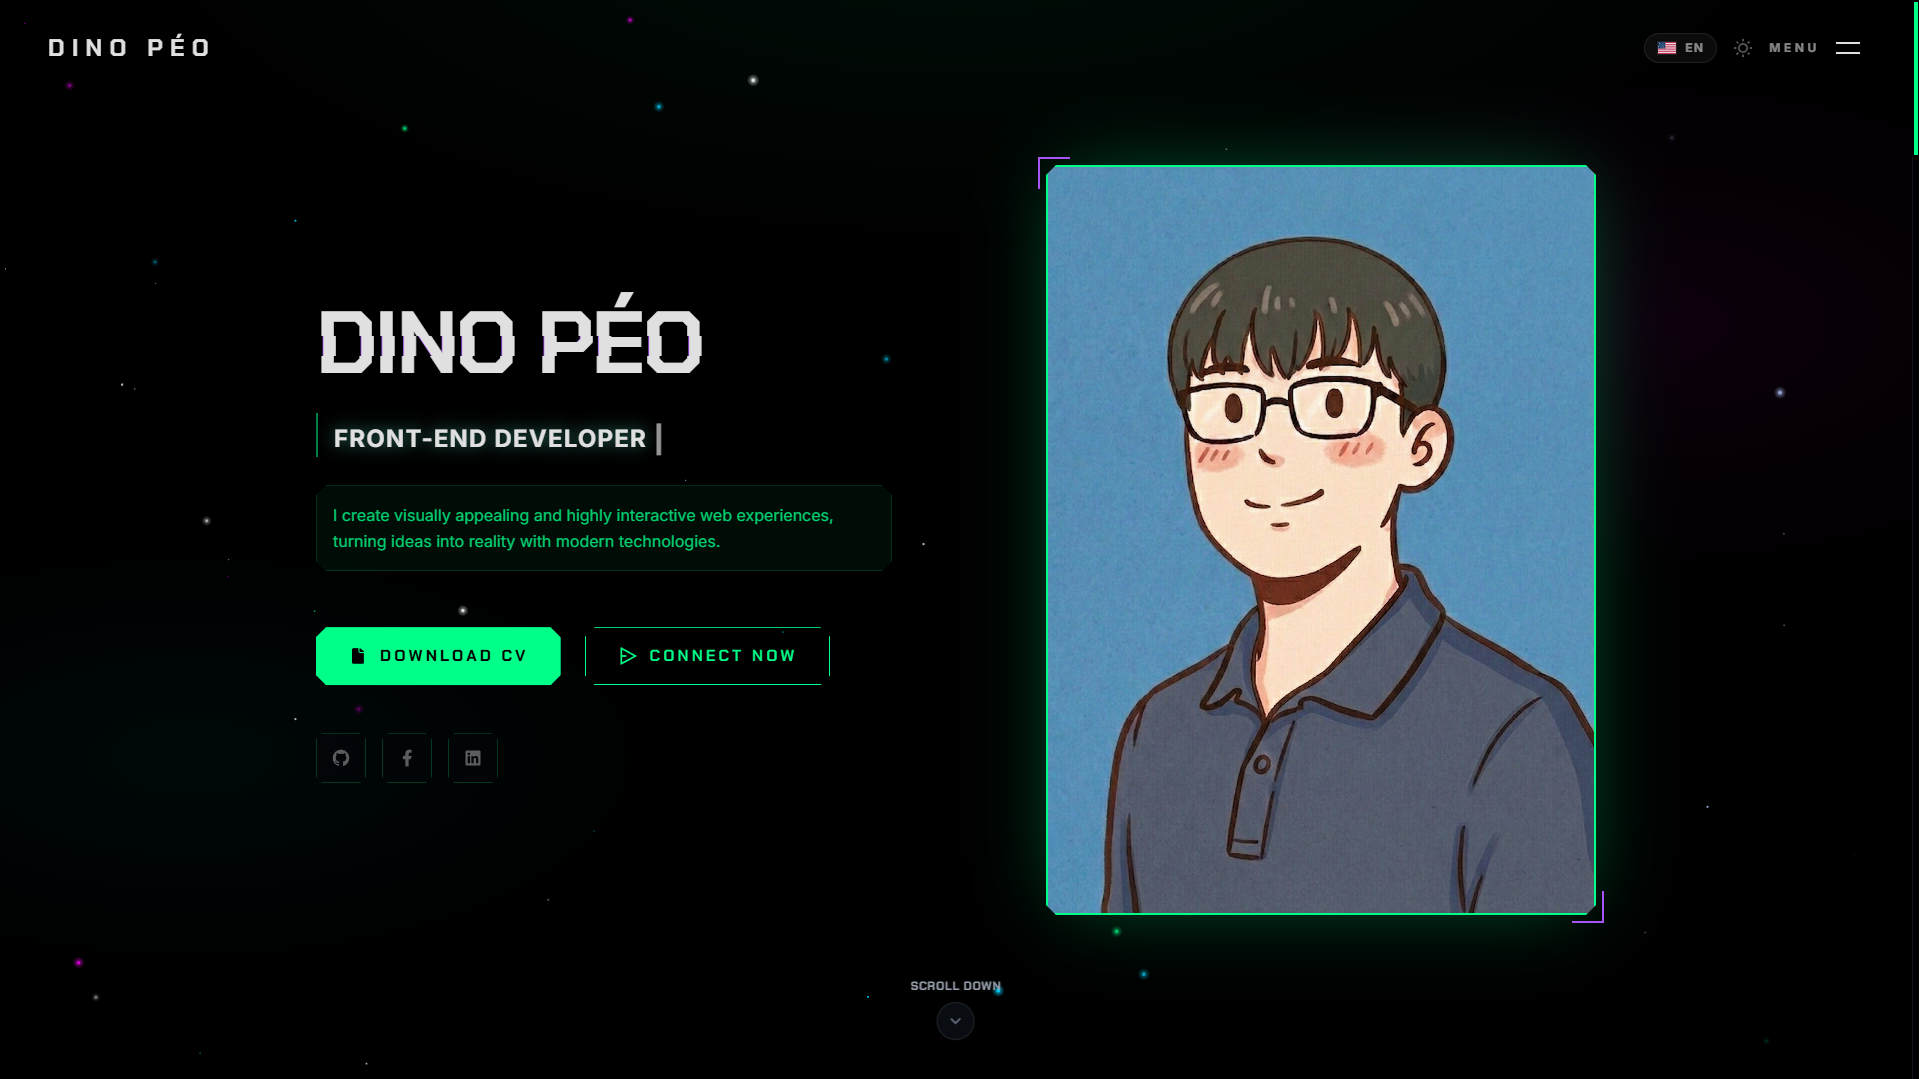
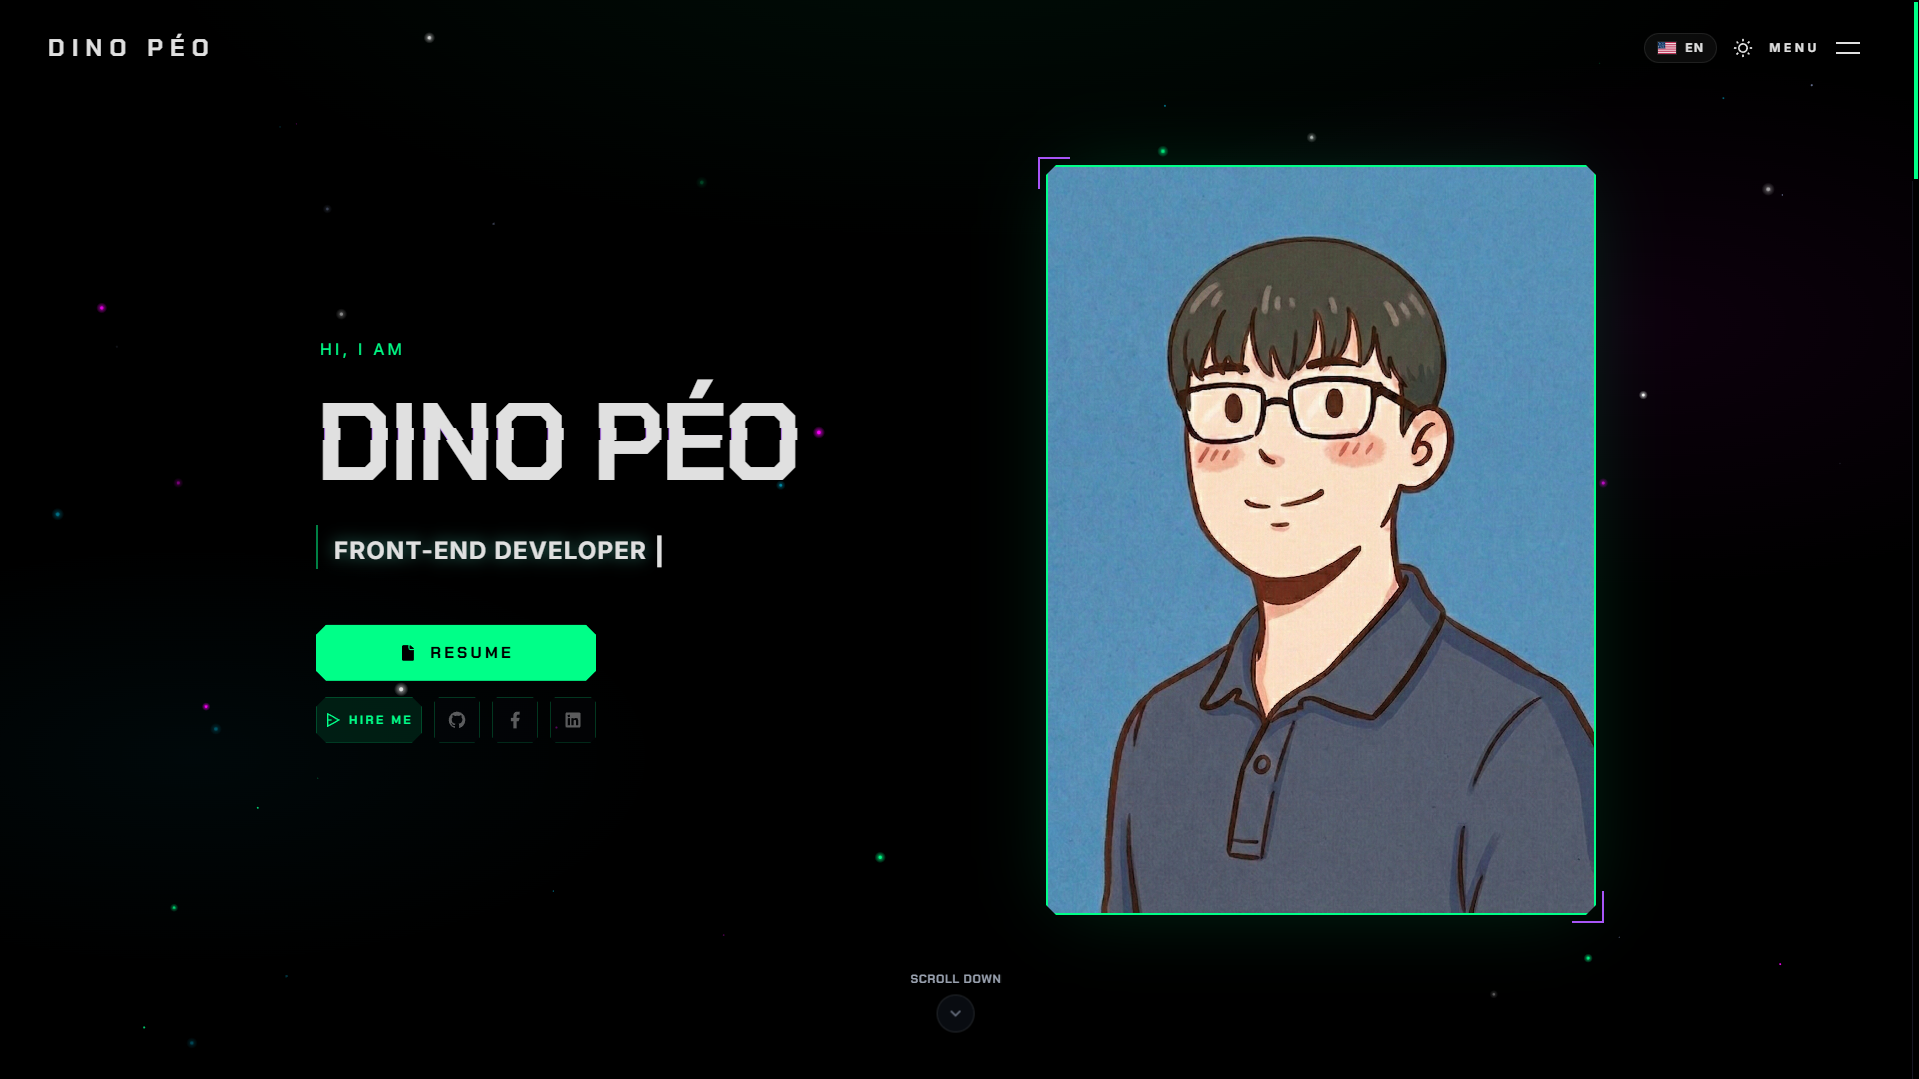
feat: comprehensive portfolio refinement
- Remove About section from layout and navigation
- Integrate Sci-Fi section dividers (01-03)
- Add MongoDB & NestJS to tech stack
- Update all skill icons to latest Devicon versions
- Fix TypeScript unused variable errors
- Optimize README.md with new project preview
- Clean up unused assets (react.svg)

diff --git a/src/constants/skillsData.tsx b/src/constants/skillsData.tsx
@@ -6,41 +6,41 @@ export const skills: Skill[] = [
   // Tools / Editor
   {
     name: TECH.VSCODE,
-    logo: "https://cdn.jsdelivr.net/gh/devicons/devicon/icons/vscode/vscode-original.svg",
+    logo: "https://cdn.jsdelivr.net/gh/devicons/devicon@latest/icons/vscode/vscode-original.svg",
     url: "https://code.visualstudio.com/",
   },
 
   // Core Frontend
   {
     name: TECH.HTML,
-    logo: "https://cdn.jsdelivr.net/gh/devicons/devicon/icons/html5/html5-original.svg",
+    logo: "https://cdn.jsdelivr.net/gh/devicons/devicon@latest/icons/html5/html5-original.svg",
     url: "https://developer.mozilla.org/en-US/docs/Web/HTML",
   },
   {
     name: TECH.CSS,
-    logo: "https://cdn.jsdelivr.net/gh/devicons/devicon/icons/css3/css3-original.svg",
+    logo: "https://cdn.jsdelivr.net/gh/devicons/devicon@latest/icons/css3/css3-original.svg",
     url: "https://developer.mozilla.org/en-US/docs/Web/CSS",
   },
   {
     name: TECH.JS,
-    logo: "https://cdn.jsdelivr.net/gh/devicons/devicon/icons/javascript/javascript-original.svg",
+    logo: "https://cdn.jsdelivr.net/gh/devicons/devicon@latest/icons/javascript/javascript-original.svg",
     url: "https://developer.mozilla.org/en-US/docs/Web/JavaScript",
   },
   {
     name: TECH.TS,
-    logo: "https://cdn.jsdelivr.net/gh/devicons/devicon/icons/typescript/typescript-original.svg",
+    logo: "https://cdn.jsdelivr.net/gh/devicons/devicon@latest/icons/typescript/typescript-original.svg",
     url: "https://www.typescriptlang.org/",
   },
 
   // Frontend Frameworks & Animation
   {
     name: TECH.REACT,
-    logo: "https://cdn.jsdelivr.net/gh/devicons/devicon/icons/react/react-original.svg",
+    logo: "https://cdn.jsdelivr.net/gh/devicons/devicon@latest/icons/react/react-original.svg",
     url: "https://react.dev/",
   },
   {
     name: TECH.NEXT_JS,
-    logo: "https://cdn.jsdelivr.net/gh/devicons/devicon/icons/nextjs/nextjs-original.svg",
+    logo: "https://cdn.jsdelivr.net/gh/devicons/devicon@latest/icons/nextjs/nextjs-original.svg",
     invertDark: true,
     url: "https://nextjs.org/",
   },
@@ -53,61 +53,71 @@ export const skills: Skill[] = [
   // State Management
   {
     name: TECH.ZUSTAND,
-    logo: "https://raw.githubusercontent.com/pmndrs/zustand/main/examples/demo/public/logo192.png",
+    logo: "https://cdn.jsdelivr.net/gh/devicons/devicon@latest/icons/zustand/zustand-original.svg",
     url: "https://zustand-demo.pmnd.rs/",
   },
 
   // Styling
   {
     name: TECH.TAILWIND,
-    logo: "https://cdn.jsdelivr.net/gh/devicons/devicon/icons/tailwindcss/tailwindcss-original.svg",
+    logo: "https://cdn.jsdelivr.net/gh/devicons/devicon@latest/icons/tailwindcss/tailwindcss-original.svg",
     url: "https://tailwindcss.com/",
   },
   {
     name: TECH.SASS,
-    logo: "https://cdn.jsdelivr.net/gh/devicons/devicon/icons/sass/sass-original.svg",
+    logo: "https://cdn.jsdelivr.net/gh/devicons/devicon@latest/icons/sass/sass-original.svg",
     url: "https://sass-lang.com/",
   },
   {
     name: TECH.BOOTSTRAP,
-    logo: "https://cdn.jsdelivr.net/gh/devicons/devicon/icons/bootstrap/bootstrap-original.svg",
+    logo: "https://cdn.jsdelivr.net/gh/devicons/devicon@latest/icons/bootstrap/bootstrap-original.svg",
     url: "https://getbootstrap.com/",
   },
 
   // Build tools / Package manager
   {
     name: TECH.VITE,
-    logo: "https://cdn.jsdelivr.net/gh/devicons/devicon/icons/vitejs/vitejs-original.svg",
+    logo: "https://cdn.jsdelivr.net/gh/devicons/devicon@latest/icons/vitejs/vitejs-original.svg",
     url: "https://vitejs.dev/",
   },
   {
     name: TECH.NPM,
-    logo: "https://cdn.jsdelivr.net/gh/devicons/devicon/icons/npm/npm-original-wordmark.svg",
+    logo: "https://cdn.jsdelivr.net/gh/devicons/devicon@latest/icons/npm/npm-original-wordmark.svg",
     url: "https://www.npmjs.com/",
   },
 
   // Backend
   {
     name: TECH.NODE_JS,
-    logo: "https://cdn.jsdelivr.net/gh/devicons/devicon/icons/nodejs/nodejs-original.svg",
+    logo: "https://cdn.jsdelivr.net/gh/devicons/devicon@latest/icons/nodejs/nodejs-original.svg",
     url: "https://nodejs.org/",
   },
   {
     name: TECH.LARAVEL,
-    logo: "https://cdn.jsdelivr.net/gh/devicons/devicon/icons/laravel/laravel-original.svg",
+    logo: "https://cdn.jsdelivr.net/gh/devicons/devicon@latest/icons/laravel/laravel-original.svg",
     url: "https://laravel.com/",
   },
   {
+    name: TECH.NESTJS,
+    logo: "https://cdn.jsdelivr.net/gh/devicons/devicon@latest/icons/nestjs/nestjs-original.svg",
+    url: "https://nestjs.com/",
+  },
+  {
     name: TECH.DISCORD_JS,
-    logo: "https://cdn.jsdelivr.net/gh/devicons/devicon/icons/discordjs/discordjs-original.svg",
+    logo: "https://cdn.jsdelivr.net/gh/devicons/devicon@latest/icons/discordjs/discordjs-original.svg",
     url: "https://discord.js.org/",
   },
 
   // Database
   {
     name: TECH.MYSQL,
-    logo: "https://cdn.jsdelivr.net/gh/devicons/devicon/icons/mysql/mysql-original.svg",
+    logo: "https://cdn.jsdelivr.net/gh/devicons/devicon@latest/icons/mysql/mysql-original.svg",
     url: "https://www.mysql.com/",
+  },
+  {
+    name: TECH.MONGODB,
+    logo: "https://cdn.jsdelivr.net/gh/devicons/devicon@latest/icons/mongodb/mongodb-original.svg",
+    url: "https://www.mongodb.com/",
   },
   {
     name: TECH.FIREBASE,
@@ -118,12 +128,12 @@ export const skills: Skill[] = [
   // Version control
   {
     name: TECH.GIT,
-    logo: "https://cdn.jsdelivr.net/gh/devicons/devicon/icons/git/git-original.svg",
+    logo: "https://cdn.jsdelivr.net/gh/devicons/devicon@latest/icons/git/git-original.svg",
     url: "https://git-scm.com/",
   },
   {
     name: TECH.GITHUB,
-    logo: "https://cdn.jsdelivr.net/gh/devicons/devicon/icons/github/github-original.svg",
+    logo: "https://cdn.jsdelivr.net/gh/devicons/devicon@latest/icons/github/github-original.svg",
     invertDark: true,
     url: "https://github.com/",
   },
@@ -131,14 +141,14 @@ export const skills: Skill[] = [
   // Design
   {
     name: TECH.FIGMA,
-    logo: "https://cdn.jsdelivr.net/gh/devicons/devicon/icons/figma/figma-original.svg",
+    logo: "https://cdn.jsdelivr.net/gh/devicons/devicon@latest/icons/figma/figma-original.svg",
     url: "https://www.figma.com/",
   },
 
   // Deployment
   {
     name: TECH.VERCEL,
-    logo: "https://cdn.jsdelivr.net/gh/devicons/devicon/icons/vercel/vercel-original.svg",
+    logo: "https://cdn.jsdelivr.net/gh/devicons/devicon@latest/icons/vercel/vercel-original.svg",
     invertDark: true,
     url: "https://vercel.com/",
   },

diff --git a/src/pages/PortfolioPage.tsx b/src/pages/PortfolioPage.tsx
@@ -4,7 +4,7 @@ import Header from "../components/general/Header";
 
 import Footer from "../components/general/Footer";
 import HeroSection from "../features/hero/HeroSetion";
-import AboutSection from "../features/about/AboutSection";
+
 import SkillsSection from "../features/skills/SkillsSection";
 import ProjectsSection from "../features/project/ProjectSecion";
 import ContactSection from "../features/contact/ContactSection";
@@ -34,7 +34,7 @@ const PortfolioPage: React.FC = () => {
       <main className="flex-1 relative z-10">
         <HeroSection scrollToSection={scrollToSection} />
 
-        <AboutSection />
+
 
         <SkillsSection />
 

diff --git a/src/features/project/ProjectSecion.tsx b/src/features/project/ProjectSecion.tsx
@@ -11,7 +11,10 @@ export default function ProjectSection() {
   const { t } = useTranslation();
 
   return (
-    <section id="projects" className="py-24 relative overflow-hidden">
+    <section id="projects" className="py-32 relative overflow-hidden bg-card/10 border-y border-primary/5">
+      {/* Dots Pattern Background */}
+      <div className="absolute inset-0 cyber-dots pointer-events-none opacity-[0.05]" />
+
       <div className="max-w-7xl mx-auto px-6">
         {/* ================= FEATURED ================= */}
         <div className="mb-32">

diff --git a/src/features/hero/HeroButtons.tsx b/src/features/hero/HeroButtons.tsx
@@ -1,15 +1,12 @@
 import React from "react";
-import { RiSendPlane2Line } from "react-icons/ri";
 import { IoIosDocument } from "react-icons/io";
 import { useTranslation } from "react-i18next";
 
 import { profileData } from "../../constants/profileData";
 
-interface HeroButtonsProps {
-  scrollToSection: (sectionId: string) => void;
-}
+interface HeroButtonsProps {}
 
-const HeroButtons: React.FC<HeroButtonsProps> = ({ scrollToSection }) => {
+const HeroButtons: React.FC<HeroButtonsProps> = () => {
   const { t } = useTranslation();
 
   return (

diff --git a/src/features/hero/HeroSetion.tsx b/src/features/hero/HeroSetion.tsx
@@ -44,7 +44,7 @@ export default function HeroSection({ scrollToSection }: HeroSectionProps) {
 
 
             <div className="flex flex-col gap-0 w-full max-w-[280px] xs:max-w-[320px]">
-              <HeroButtons scrollToSection={scrollToSection} />
+              <HeroButtons />
               <SocialLinks scrollToSection={scrollToSection} />
             </div>
           </div>

diff --git a/src/components/general/Header.tsx b/src/components/general/Header.tsx
@@ -22,7 +22,6 @@ const Header: React.FC<HeaderProps> = ({ scrollToSection }) => {
   const navItems = useMemo(
     () => [
       { name: t("nav.home"), href: "home" },
-      { name: t("nav.about"), href: "about" },
       { name: t("nav.skills"), href: "skills" },
       { name: t("nav.projects"), href: "projects" },
       { name: t("nav.contact"), href: "contact" },

diff --git a/src/constants/technologies.ts b/src/constants/technologies.ts
@@ -34,8 +34,10 @@ export const TECH = {
   NODE_JS: "Node.js",
   LARAVEL: "Laravel",
   PHP: "PHP",
+  NESTJS: "NestJS",
   DISCORD_JS: "Discord.js",
   MYSQL: "MySQL",
+  MONGODB: "MongoDB",
   FIREBASE: "Firebase",
 } as const;
 

diff --git a/README.md b/README.md
@@ -1,7 +1,7 @@
 # Portfolio - DINO PÉO
 
 <div align="center">
-  <img src="public/portfolio.png" alt="Portfolio Preview" width="800" style="border-radius: 10px; box-shadow: 0 20px 50px rgba(0,0,0,0.5);" />
+  <img src="public/assets/preview.png" alt="Dino Peo Portfolio Preview" width="800" style="border-radius: 10px; box-shadow: 0 20px 50px rgba(0,0,0,0.5);" />
 </div>
 
 <p align="center">
@@ -32,6 +32,7 @@
 ## 🛠 Công nghệ Sử dụng (Tech Stack)
 
 ### Core
+
 - **Frontend Framework:** React 19
 - **Ngôn ngữ:** TypeScript 5.8 (Strict Mode)
 - **Build Tool:** Vite 6
@@ -39,12 +40,14 @@
 - **Routing:** React Router v7
 
 ### Styling & Animation
+
 - **CSS Engine:** Tailwind CSS 4.0
 - **Animations:** Framer Motion 12
 - **Icons:** Lucide React & React Icons
 - **Notifications:** React Toastify
 
 ### Others
+
 - **Internationalization:** i18next
 - **Forms:** EmailJS (Gửi email trực tiếp từ form liên hệ)
 
@@ -83,22 +86,26 @@ src/
 ## ⚙ Cài đặt & Khởi chạy
 
 1. **Clone dự án:**
+
    ```bash
    git clone https://github.com/DuyPhatpeo/portfolio.git
    cd portfolio
    ```
 
 2. **Cài đặt dependencies:**
+
    ```bash
    npm install
    ```
 
 3. **Chạy môi trường phát triển:**
+
    ```bash
    npm run dev
    ```
 
 4. **Build sản phẩm:**
+
    ```bash
    npm run build
    ```
@@ -118,6 +125,4 @@ src/
 
 <div align="center">
   <p>Cảm ơn bạn đã ghé thăm Portfolio của tôi! Đừng quên để lại một ⭐ nếu bạn yêu thích kiến trúc này.</p>
-  <img src="https://capsule-render.vercel.app/render?type=waving&color=auto&height=100&section=footer" width="100%"/>
 </div>
-
